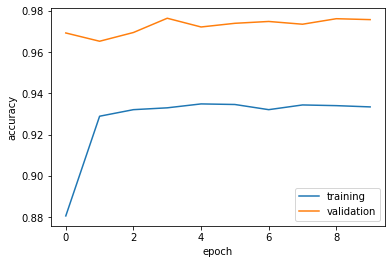
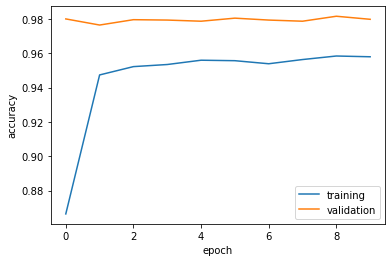
1

diff --git a/_posts/2022-03-03-blog-post-6.md b/_posts/2022-03-03-blog-post-6.md
@@ -345,35 +345,36 @@ Train the model3 and here's the history of the accuracy on both the training and
 
 ```python
 Epoch 1/10
-180/180 [==============================] - 5s 29ms/step - loss: 0.3617 
-          - accuracy: 0.8807 - val_loss: 0.1804 - val_accuracy: 0.9693
+Epoch 1/10
+180/180 [==============================] - 5s 29ms/step - loss: 0.3638 
+          - accuracy: 0.8664 - val_loss: 0.1608 - val_accuracy: 0.9800
 Epoch 2/10
-180/180 [==============================] - 5s 27ms/step - loss: 0.2008 
-          - accuracy: 0.9289 - val_loss: 0.1341 - val_accuracy: 0.9653
+180/180 [==============================] - 5s 27ms/step - loss: 0.1655 
+          - accuracy: 0.9473 - val_loss: 0.1018 - val_accuracy: 0.9764
 Epoch 3/10
-180/180 [==============================] - 5s 27ms/step - loss: 0.1804 
-          - accuracy: 0.9321 - val_loss: 0.1093 - val_accuracy: 0.9695
+180/180 [==============================] - 5s 27ms/step - loss: 0.1335 
+          - accuracy: 0.9522 - val_loss: 0.0816 - val_accuracy: 0.9795
 Epoch 4/10
-180/180 [==============================] - 5s 27ms/step - loss: 0.1763 
-          - accuracy: 0.9330 - val_loss: 0.0971 - val_accuracy: 0.9764
+180/180 [==============================] - 5s 29ms/step - loss: 0.1205 
+          - accuracy: 0.9534 - val_loss: 0.0712 - val_accuracy: 0.9793
 Epoch 5/10
-180/180 [==============================] - 5s 27ms/step - loss: 0.1695 
-          - accuracy: 0.9349 - val_loss: 0.0966 - val_accuracy: 0.9722
+180/180 [==============================] - 5s 27ms/step - loss: 0.1179 
+          - accuracy: 0.9559 - val_loss: 0.0726 - val_accuracy: 0.9786
 Epoch 6/10
-180/180 [==============================] - 5s 27ms/step - loss: 0.1641 
-          - accuracy: 0.9346 - val_loss: 0.0916 - val_accuracy: 0.9739
+180/180 [==============================] - 5s 28ms/step - loss: 0.1170 
+          - accuracy: 0.9556 - val_loss: 0.0628 - val_accuracy: 0.9804
 Epoch 7/10
-180/180 [==============================] - 5s 27ms/step - loss: 0.1725 
-          - accuracy: 0.9321 - val_loss: 0.0946 - val_accuracy: 0.9748
+180/180 [==============================] - 5s 28ms/step - loss: 0.1195 
+          - accuracy: 0.9538 - val_loss: 0.0651 - val_accuracy: 0.9793
 Epoch 8/10
-180/180 [==============================] - 5s 28ms/step - loss: 0.1646 
-          - accuracy: 0.9344 - val_loss: 0.0942 - val_accuracy: 0.9735
+180/180 [==============================] - 5s 27ms/step - loss: 0.1145 
+          - accuracy: 0.9563 - val_loss: 0.0647 - val_accuracy: 0.9786
 Epoch 9/10
-180/180 [==============================] - 5s 27ms/step - loss: 0.1671 
-          - accuracy: 0.9341 - val_loss: 0.0897 - val_accuracy: 0.9762
+180/180 [==============================] - 5s 27ms/step - loss: 0.1089 
+          - accuracy: 0.9583 - val_loss: 0.0575 - val_accuracy: 0.9815
 Epoch 10/10
-180/180 [==============================] - 5s 27ms/step - loss: 0.1696 
-          - accuracy: 0.9335 - val_loss: 0.0877 - val_accuracy: 0.9757
+180/180 [==============================] - 5s 27ms/step - loss: 0.1110 
+          - accuracy: 0.9579 - val_loss: 0.0585 - val_accuracy: 0.9797
 ```
 
 Plot the history of model3, including the training and validation performance.
@@ -387,9 +388,9 @@ plt.legend()
 ![model3.png](https://raw.githubusercontent.com/xinyue-lily/xinyue-lily.github.io/master/images/model3.png)
 
 #### My observations
-- The validation accuracy of model3 stabilized between **96.53% and 97.64%** during training.
+- The validation accuracy of model3 stabilized between **97.64% and 98.15%** during training.
 
-- The highest validation accuracy is **97.64%**. 
+- The highest validation accuracy is **98.15%**. 
 
 - From the plot, I observed overfitting in model3.
 
@@ -412,10 +413,11 @@ The accuracy of test_dataset is **97.14%**, not bad!
 
 
 ## 4.Embedding Visualizaiton
+*Word Embedding* refers to a representation of a word in a vector space. Each word is assigned an individual vector. The general aim of a word embedding is to create a representation such that word with related meanings are close to each other in a vector space, while words with different meanings are farther apart.
 
-By embedding visualization our model, We are able to find some interesting relations in the words that the model found useful when distinguishing real news from fake news.
+It's fun to take a look at the embedding learned by our model, We are able to find some interesting relations in the words that the model found useful when distinguishing real news from fake news.
 
-The collection of weights is 10-dimensional. For plotting in 2 dimensions, we select principal component analysis (PCA).
+We choose to create a 10-dimensional embedding when constructing our model. For plotting in 2 dimensions, we select principal component analysis (PCA) and then make a data frame for our results.
 
 ```python
 # get the weights from the embedding layer
@@ -433,7 +435,7 @@ embedding_df = pd.DataFrame({
     'x1'   : weights[:,1]
 })
 ```
-Ready to plot! Note that the embedding appear to be “stretched out” in two directions, with one direction corresponding to fake news or not.
+Now we're Ready to plot! Note that the embedding appear to be “stretched out” in two directions, with one direction corresponding to fake news or not.
 
 ```python
 import plotly.express as px 
@@ -451,7 +453,7 @@ fig.show()
 
 We have made a word embedding which seems to have learned some reasonable associations.
 
-With these considerations in mind, let’s see what kinds of words our model associates with China and Trump.
+With these considerations in mind, let’s see what kinds of words our model associates with men and women.
 
 ```python
 f = ["she","her","woman"]
